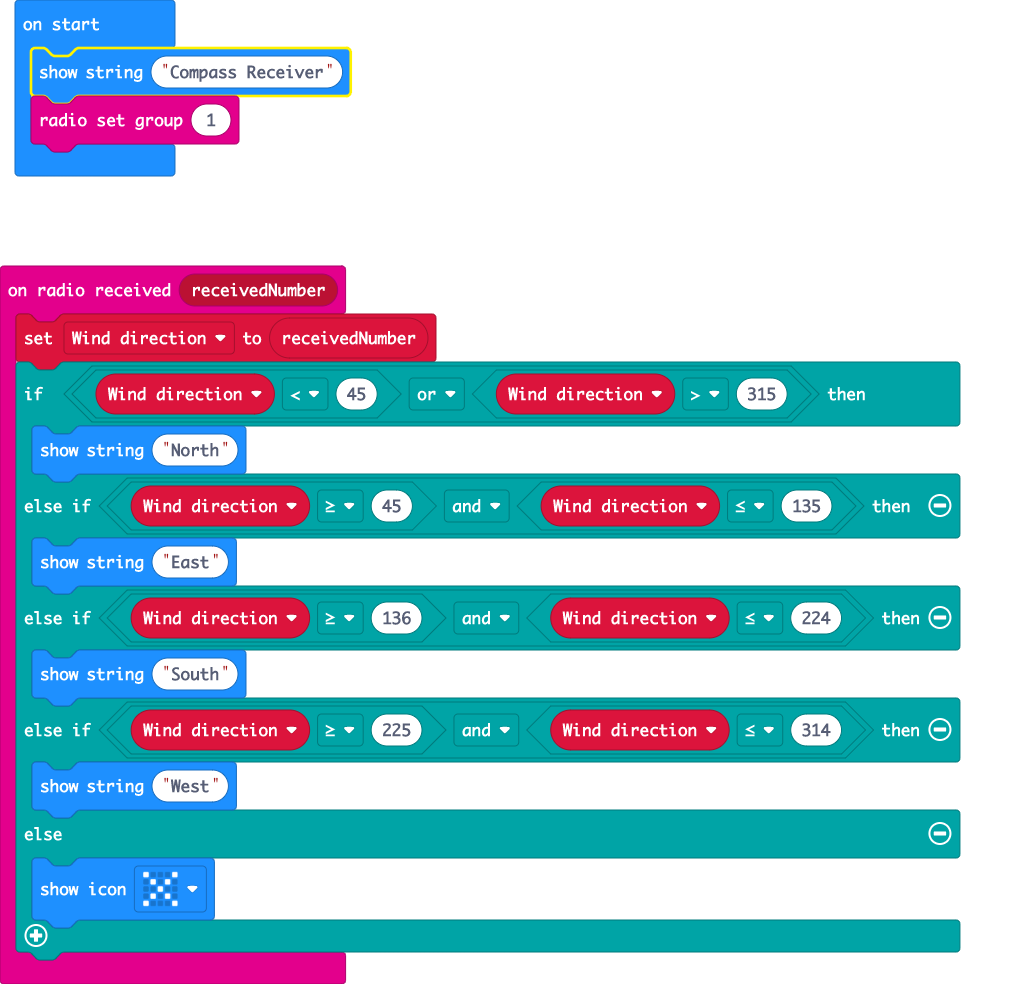
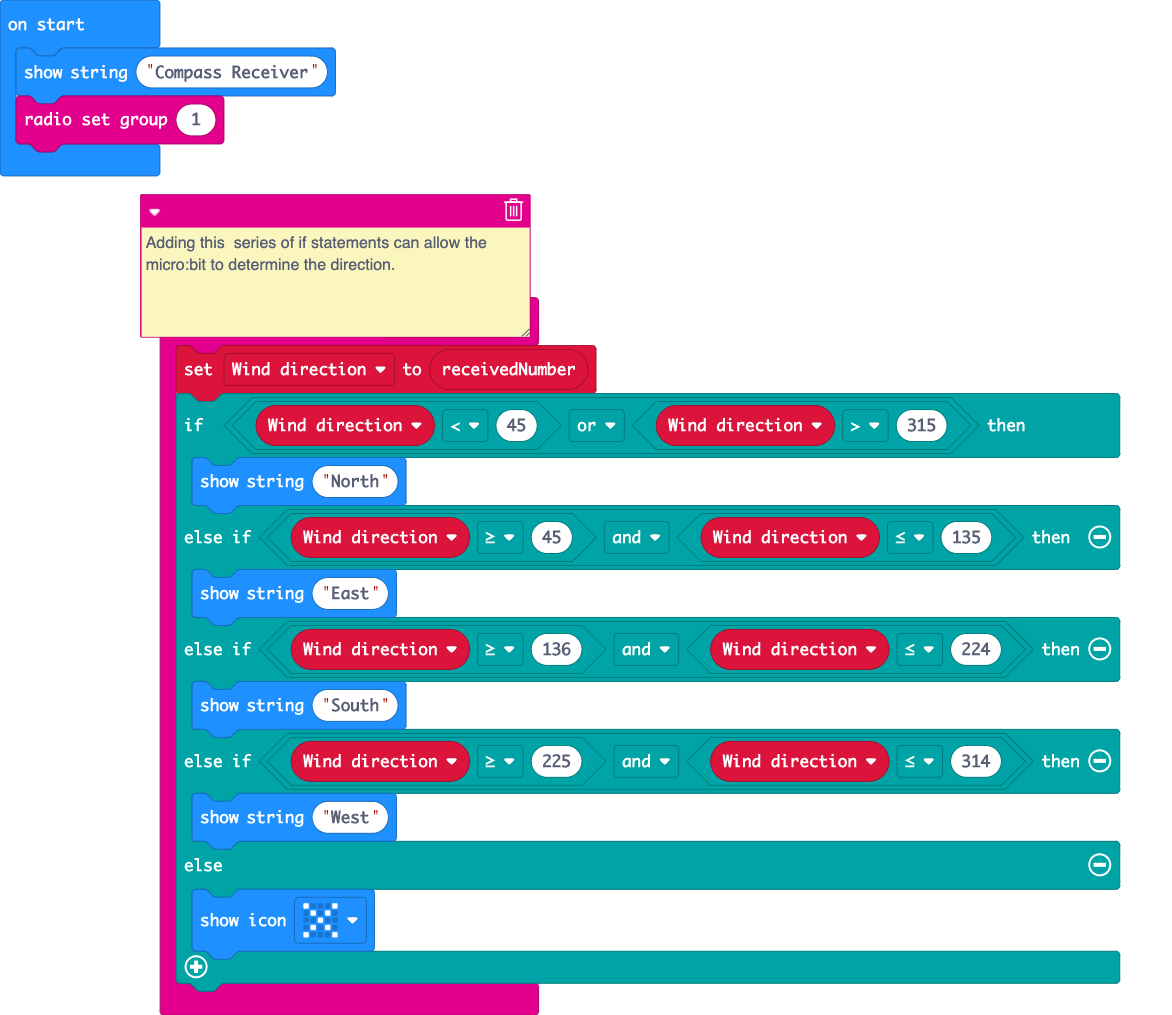
Update main.blocks, main.ts

diff --git a/main.ts b/main.ts
@@ -1,3 +1,4 @@
+// Adding this  series of if statements can allow the  micro:bit to determine the direction.
 radio.onReceivedNumber(function (receivedNumber) {
     Wind_direction = receivedNumber
     if (Wind_direction < 45 || Wind_direction > 315) {
